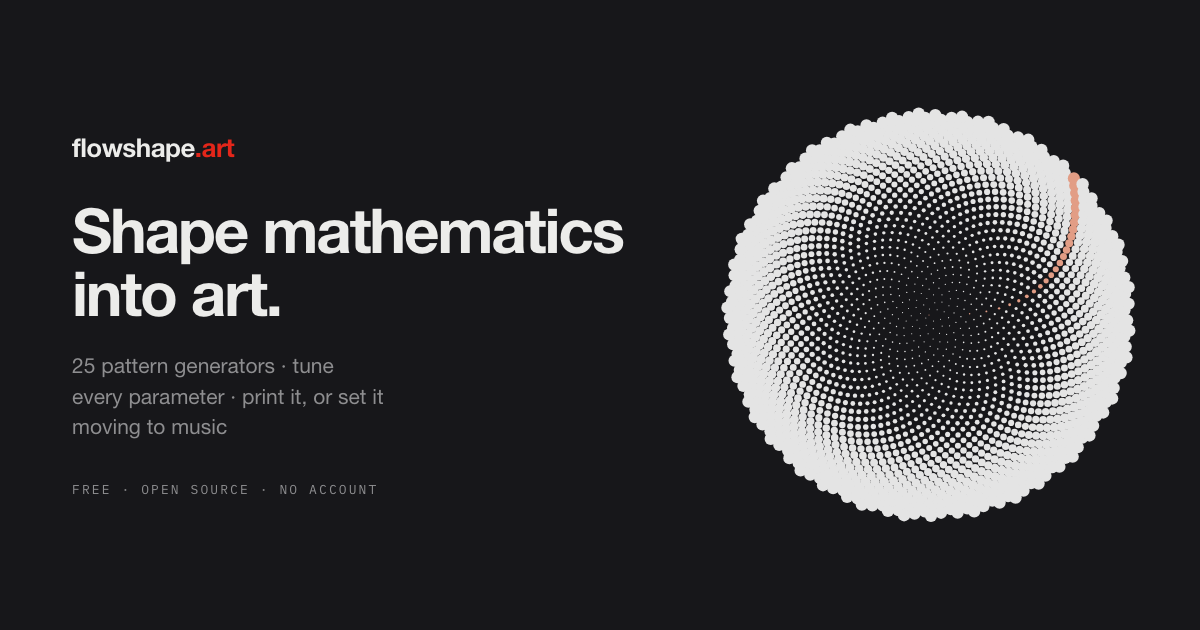
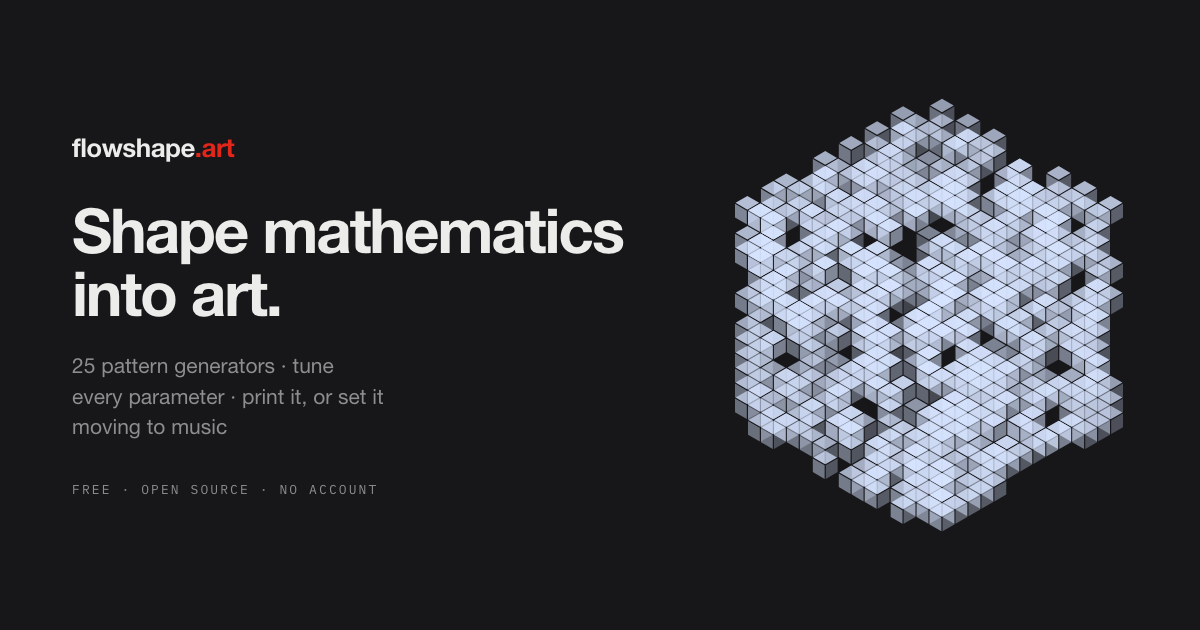
feat(og): social card artwork is the voxel shell, not phyllotaxis
Jossi picked the render; params and colour state are lifted verbatim from his
URL (voxel, seed 68182, hue 266). paperL stays out of the card background on
purpose so the left-hand type keeps the ground it was designed against — only
ink and accent carry the artwork's hue.

Changed region(s): [[0.5858, 0.1508, 0.9558, 0.8444]]

diff --git a/scripts/build-og.ts b/scripts/build-og.ts
@@ -21,9 +21,16 @@ const OUT = path.join(path.dirname(fileURLToPath(import.meta.url)), '.og');
 
 const CARD = { w: 1200, h: 630 };
 const ART = { w: 430, h: 560 };
-const ART_PATTERN = 'phyllotaxis';
-const ART_SEED = 7;
-const ART_PARAMS = { points: 2200, accentEvery: 89, dotMin: 0.5, dotGrow: 0.0026 };
+const ART_PATTERN = 'voxel';
+const ART_SEED = 68182;
+const ART_PARAMS = {
+  shape: 1, dimension: 14, gap: 0.09, shellOnly: 1, scatter: 0.53,
+  faceShading: 0.75, depthShading: 0.55, strokeWidth: 0.75, size: 1.17, phase: 0,
+};
+// The card takes its ink and accent from the artwork's own colour state, so the
+// social image matches the URL it came from. `paperL` is deliberately NOT let
+// through to the card background — see `artwork()`.
+const ART_COLOR = { hue: 266, chroma: 0.115, paperL: 0.08, accentShift: 130 };
 
 const COPY = {
   en: {
@@ -43,7 +50,10 @@ function artwork(): string {
   const node = generateSafe(def, ART_PARAMS, ART_SEED, ART);
   // `paper` is transparent here: the card's own background shows through, so
   // the artwork sits on the ground colour rather than on a pasted rectangle.
-  return serialize(node, { ...resolvePalette({}), paper: 'transparent' });
+  // This is why ART_COLOR's paperL does not reach the card — the ground stays
+  // the site's #17171a and only ink/accent carry the artwork's hue, which keeps
+  // the card's left-hand type on the same background it was designed against.
+  return serialize(node, { ...resolvePalette(ART_COLOR), paper: 'transparent' });
 }
 
 function page(lang: keyof typeof COPY): string {
